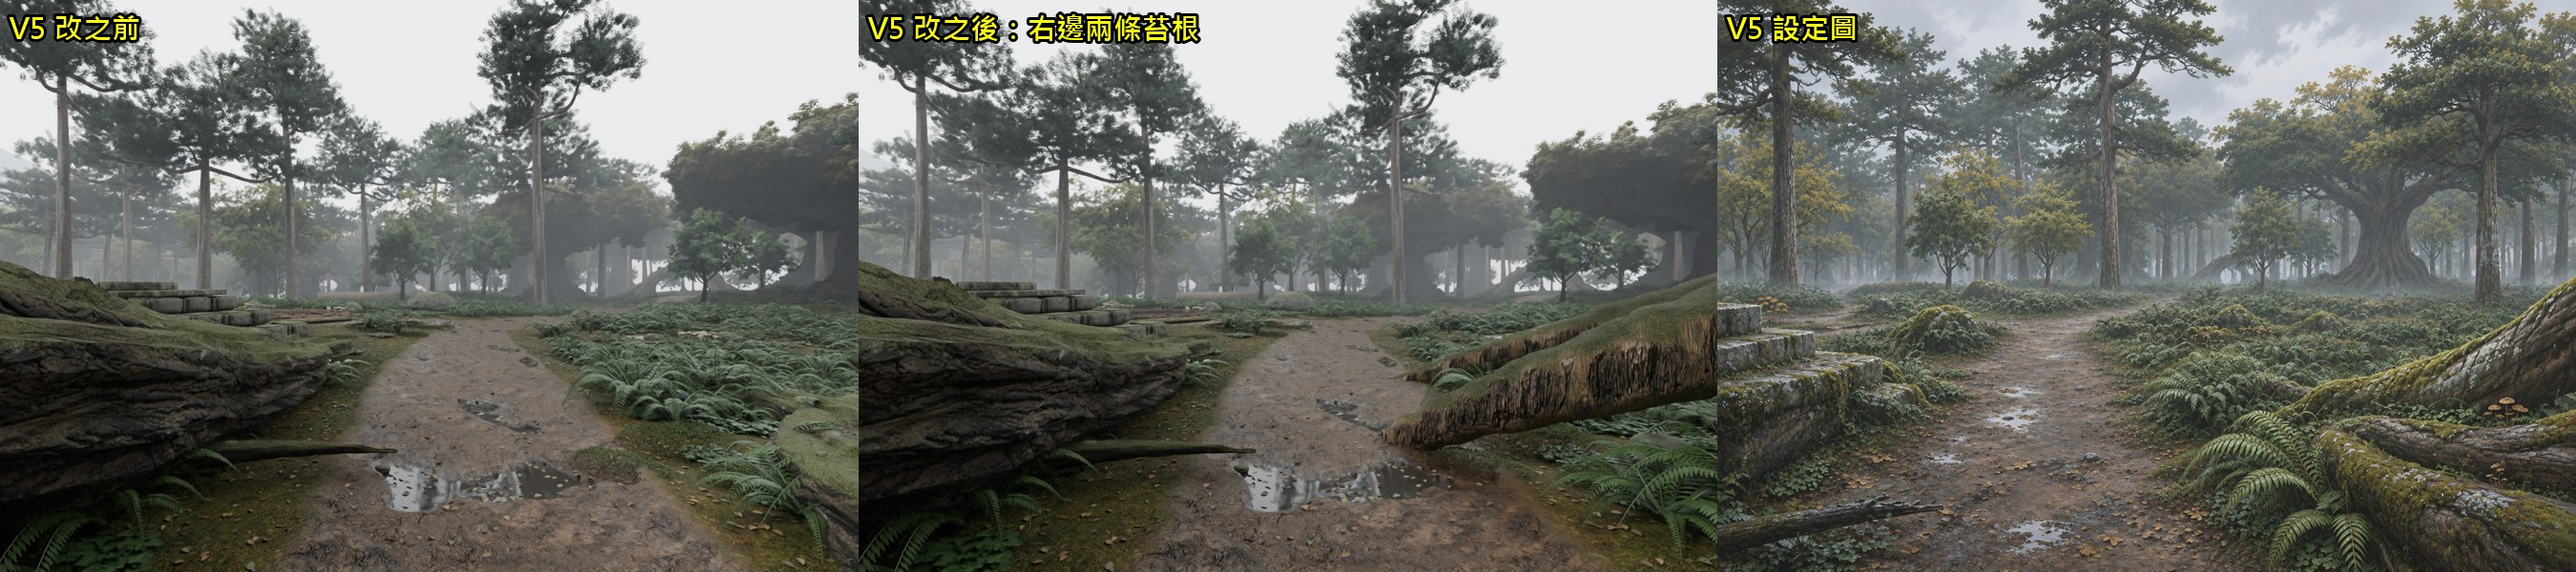
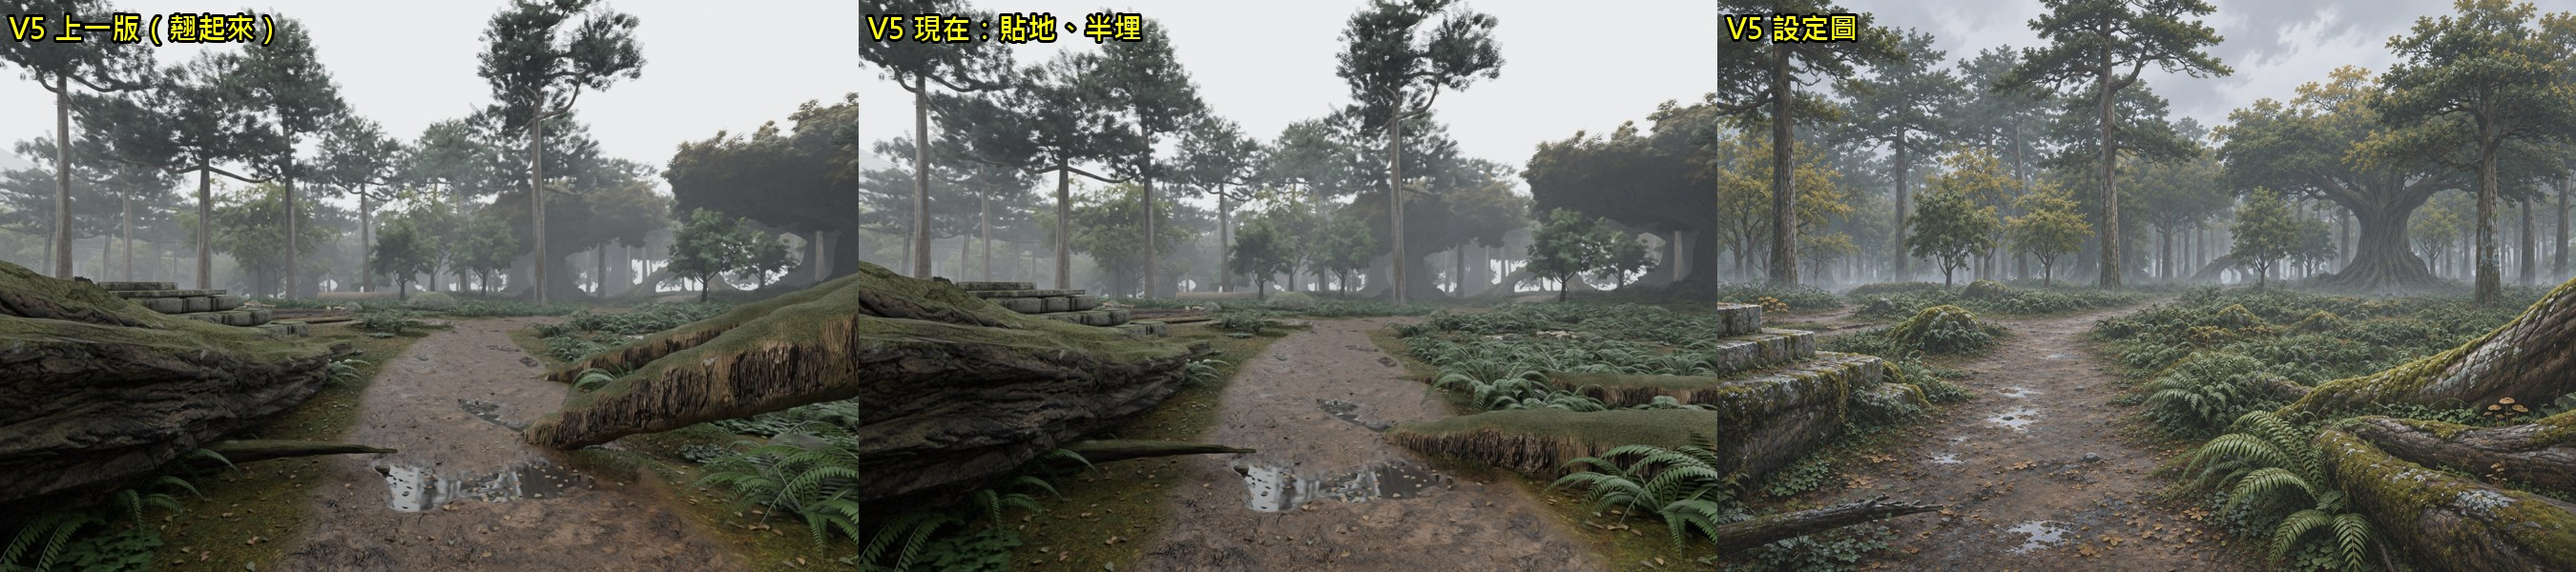
D2 V5: lay the two mossy roots on the ground, half buried (no longer tilted up)

diff --git a/art/source/core-d2-v1/d2_plan.py b/art/source/core-d2-v1/d2_plan.py
@@ -782,6 +782,7 @@ if REAL:   # V5 設定圖：支路兩旁各有幾條沿著路走的長根
     for a, b, r in [((-1.5, 13), (5.5, -1), 1.1), ((-11.5, 9), (-15, -3), .9), ((-2, 16), (2, 6), .8)]:
         root_ridge(a, b, r, .4, force=True)
     # 11/22 V5 路右邊兩條交疊的大苔根（設定圖：從畫面右邊伸過來、往路邊斜下去鑽進土裡；前面那條壓在後面那條上）
+    #   z1nnz「又翹起來了」：根要貼地、下半埋進土裡，不能斜斜翹在空中
     #   整條漸細的獨立模型（不是頭尾切面的掃描根）；點用 V5 鏡頭座標（往前 fd、往右 rd）
     _c5 = Vector((-6, 12)); _f5 = Vector((23, -33)).normalized(); _r5 = Vector((_f5.y, -_f5.x))
     _v5m = _bkm.copy()
@@ -789,8 +790,8 @@ if REAL:   # V5 設定圖：支路兩旁各有幾條沿著路走的長根
     next(x_ for x_ in _v5m.node_tree.nodes if x_.type == 'MAPPING').inputs['Scale'].default_value = (1 / .9, 1 / .9, 1 / 1.6)
     mossify(_v5m, 1.1, 1.0)
     for _k, (_pts, _r0, _r1) in enumerate((
-            ([(3.6, 4.9, 1.9), (4.3, 3.4, 1.25), (5.1, 2.2, .6), (6.0, 1.4, -.1)], .58, .2),   # 近的、粗的：從畫面右下斜上去
-            ([(6.8, 7.6, 2.2), (7.4, 5.6, 1.5), (8.4, 3.7, .65), (9.4, 2.4, -.1)], .45, .16))):   # 後面那條：從右邊較高處下來
+            ([(3.6, 4.9, .38), (4.3, 3.4, .34), (5.1, 2.2, .24), (6.0, 1.4, -.12)], .58, .2),   # 近的、粗的：從畫面右下斜上去
+            ([(6.8, 7.6, .32), (7.4, 5.6, .3), (8.4, 3.7, .2), (9.4, 2.4, -.1)], .45, .16))):   # 後面那條：從右邊較高處下來
         _cu = bpy.data.curves.new(f'V5Root{_k}', 'CURVE'); _cu.dimensions = '3D'; _cu.bevel_depth = 1.0; _cu.bevel_resolution = 6
         _cu.resolution_u = 24; _cu.use_fill_caps = True
         _sp = _cu.splines.new('NURBS'); _sp.points.add(len(_pts) - 1)
